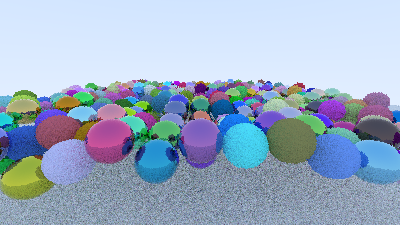
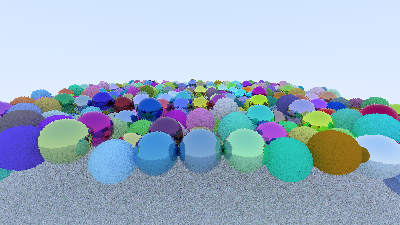
working on tex coord issue

diff --git a/src/io/image.cpp b/src/io/image.cpp
@@ -12,7 +12,54 @@
 
 bool radiance::io::readRGBImageFromPNG(Image<math::Color3> &image, const char *filename)
 {
-    return false;
+    int w,h,num_channels;
+    unsigned char* data = stbi_load(filename,&w,&h,&num_channels,3);
+
+    if(!data || (num_channels != 3)){
+        std::cerr << "ERROR: Failed to load alleged jpg image " << filename << std::endl;
+        return false;
+    }
+
+    image.resize(w,h);
+
+    for(int i = 0;i<w*h;i++){
+        image.write(i,math::Color3{
+            static_cast<float>(data[3*i]) / 255.99f,
+            static_cast<float>(data[3*i+1]) / 255.99f,
+            static_cast<float>(data[3*i+2]) / 255.99f
+        });
+
+    }
+
+    stbi_image_free(data);
+
+    return true;
+}
+
+bool radiance::io::readRGBImageFromJPG(Image<math::Color3> &image, const char *filename)
+{
+    int w,h,num_channels;
+    unsigned char* data = stbi_load(filename,&w,&h,&num_channels,3);
+
+    if(!data || (num_channels != 3)){
+        std::cerr << "ERROR: Failed to load alleged png image " << filename << std::endl;
+        return false;
+    }
+
+    image.resize(w,h);
+
+    for(int i = 0;i<w*h;i++){
+        image.write(i,math::Color3{
+            static_cast<float>(data[3*i]) / 255.99f,
+            static_cast<float>(data[3*i+1]) / 255.99f,
+            static_cast<float>(data[3*i+2]) / 255.99f
+        });
+    }
+
+
+    stbi_image_free(data);
+
+    return true;
 }
 
 bool radiance::io::readRGBImageFromEXR(Image<math::Color3> &image, const char *filename)

diff --git a/src/main.cpp b/src/main.cpp
@@ -141,12 +141,14 @@ radiance::geometry::Scene scene4(){
     auto left = std::make_shared<radiance::materials::Glass>(1.5);
 
     std::string texture_path = TEXTURE_DIR + std::string{"grid.exr"};
-    radiance::io::Image<radiance::math::Color3> image{};
-    if(!radiance::io::readRGBImageFromEXR(image,texture_path.c_str())){
+    auto image = std::make_shared<radiance::io::Image<radiance::math::Color3>>();
+    std::cout << texture_path << std::endl;
+    if(!radiance::io::readRGBImageFromEXR(*image,texture_path.c_str())){
         std::cerr << "Failed to load: " << texture_path << std::endl;
     }
 
-    auto texture = std::make_shared<radiance::materials::ImageTexture>(std::move(image));
+
+    auto texture = std::make_shared<radiance::materials::ImageTexture>(image);
     
 
     auto center = std::make_shared<radiance::materials::Diffuse>(texture);
@@ -194,12 +196,17 @@ int main(int argc,char** argv){
 
     radiance::math::initRandom();
 
+    radiance::geometry::Sphere s{radiance::math::Vec3{0,0,0},1.0,nullptr};
+
+    std::cout << s.pointToUV(radiance::math::Vec3{0,-1,1}.normalize()) << std::endl;
+
+
 
     //Image
     float aspect = 16.0/9.0;
     int width = 400;
     int height = static_cast<int>(width / aspect);
-    int spp = 10;
+    int spp = 100;
     int max_rays = 100;
     float bounce_offset = 0.0001;
     radiance::io::Image<radiance::math::Color3> out_image{width,height};

diff --git a/src/materials/texture.cpp b/src/materials/texture.cpp
@@ -11,7 +11,8 @@ radiance::math::Color3 radiance::materials::ConstantTexture::getColor(const geom
     return color;
 }
 
-radiance::materials::ImageTexture::ImageTexture(const io::Image<math::Color3> &&image):
+
+radiance::materials::ImageTexture::ImageTexture(std::shared_ptr<io::Image<math::Color3>> image):
     image{image}
 {
 }
@@ -21,8 +22,10 @@ radiance::math::Color3 radiance::materials::ImageTexture::getColor(const geometr
     float u = hit.u;
     float v = hit.v;
 
-    int x = static_cast<int>(u*image.width);
-    int y = static_cast<int>(v*image.height);
+    int x = static_cast<int>(u*image->width);
+    int y = static_cast<int>(v*image->height);
 
-    return image.read(x,y);
+    auto col = image->read(x,y);
+
+    return col;
 }

diff --git a/src/geometry/sphere.cpp b/src/geometry/sphere.cpp
@@ -35,7 +35,7 @@ bool radiance::geometry::Sphere::trace(const math::Ray& ray,Hit& hit,float tmin,
         auto n = (hit.p - _center) / _radius;
         hit.setNormal(ray,n);
         hit.material = material;
-        auto uv = pointToUV(hit.p);
+        auto uv = pointToUV(n);
         hit.u = uv.x();
         hit.v = uv.y();
         return true;
@@ -48,7 +48,7 @@ bool radiance::geometry::Sphere::trace(const math::Ray& ray,Hit& hit,float tmin,
         auto n = (hit.p - _center) / _radius;
         hit.setNormal(ray,n);
         hit.material = material;
-        auto uv = pointToUV(hit.p);
+        auto uv = pointToUV(n);
         hit.u = uv.x();
         hit.v = uv.y();
         return true;

diff --git a/src/materials/texture.h b/src/materials/texture.h
@@ -25,11 +25,11 @@ namespace radiance{
 
         class ImageTexture: public Texture{
             public:
-                ImageTexture(const io::Image<math::Color3>&& image);
+                ImageTexture(std::shared_ptr<io::Image<math::Color3>> image);
                 math::Color3 getColor(const geometry::Hit& hit) const override;
                 
             private:
-                io::Image<math::Color3> image{};
+                std::shared_ptr<io::Image<math::Color3>> image{};
         };
     }
 }

diff --git a/src/geometry/sphere.h b/src/geometry/sphere.h
@@ -22,10 +22,10 @@ namespace radiance{
             float _radius;
             std::shared_ptr<materials::Material> material{};
             geometry::AABB box{};
-
+            //TODO: Make private
+            math::Vec2 pointToUV(const math::Vec3& p) const;
             private:
 
-                math::Vec2 pointToUV(const math::Vec3& p) const;
         };
     }
 }

diff --git a/src/io/image.h b/src/io/image.h
@@ -59,6 +59,8 @@ namespace radiance{
 
         bool readRGBImageFromPNG(Image<math::Color3>& image,const char* filename);
 
+        bool readRGBImageFromJPG(Image<math::Color3>& image,const char* filename);
+
         bool readRGBImageFromEXR(Image<math::Color3>& image,const char* filename);
 
 

diff --git a/README.md b/README.md
@@ -40,19 +40,27 @@ All dependencies are self-contained in this project using git's submodule system
     - [x] have an image
     - [x] read from png
     - [x] read from exr
-- [ ] write to png
-
+- [x] write to png
 
 - [ ] triangles
 - [ ] load obj
 - [ ] instancing (make an instance hittable)
+
+- [ ] fix texture coords
 - [ ] plastic material (outside glass, inside diffuse)
 - [ ] glossy material
 
+- [ ] area lights
+
 
 ### P3
-- [ ] replace floats with Real
 
+
+### Bonus
+- [ ] stratification
+- [ ] sample lights based on surface area frac
+- [ ] efficient sphere sampling (via "cone sampling")
+- [ ] better triangle sampling
 
 
 ## Installation
